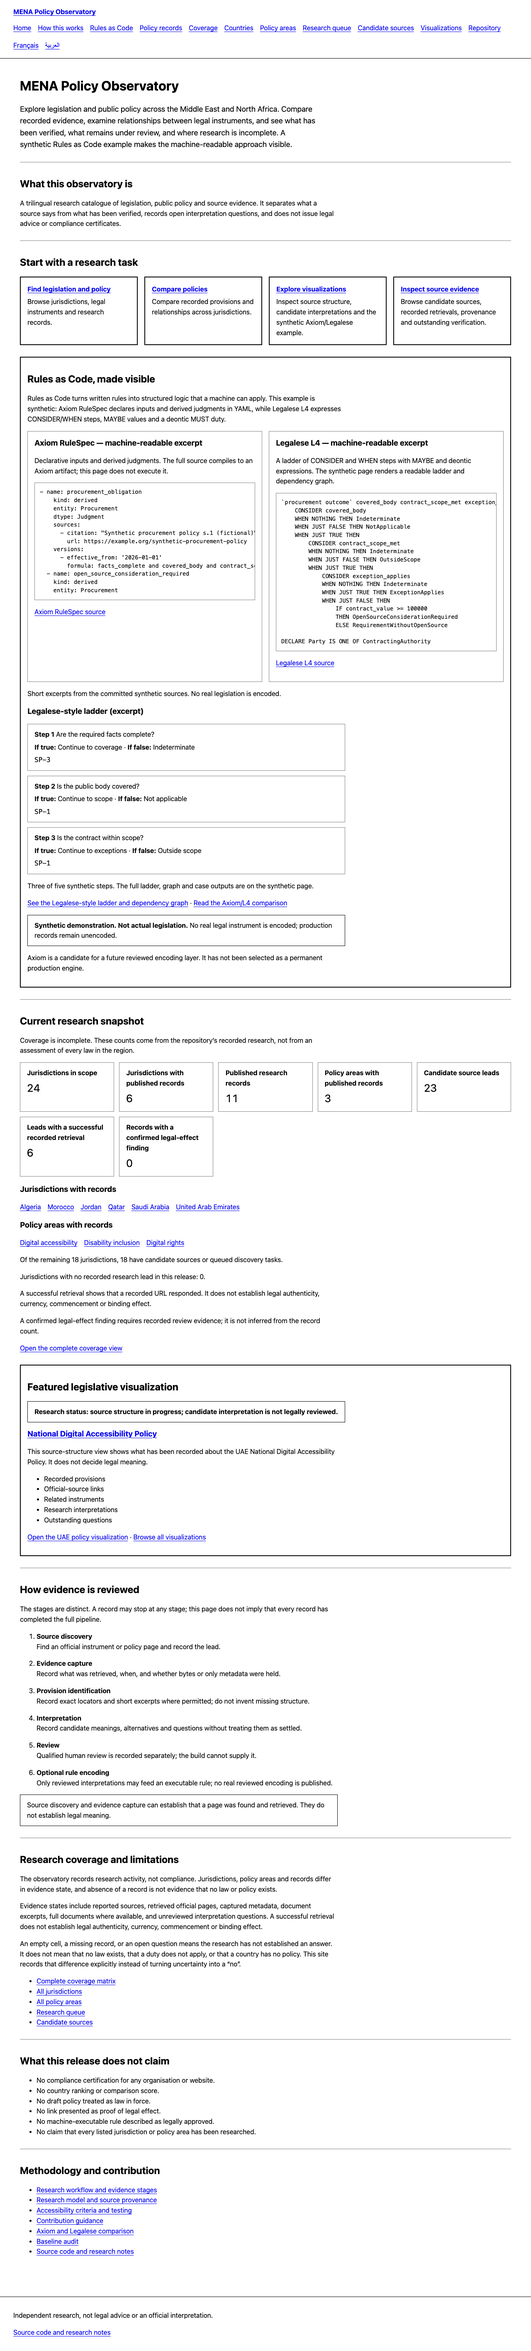
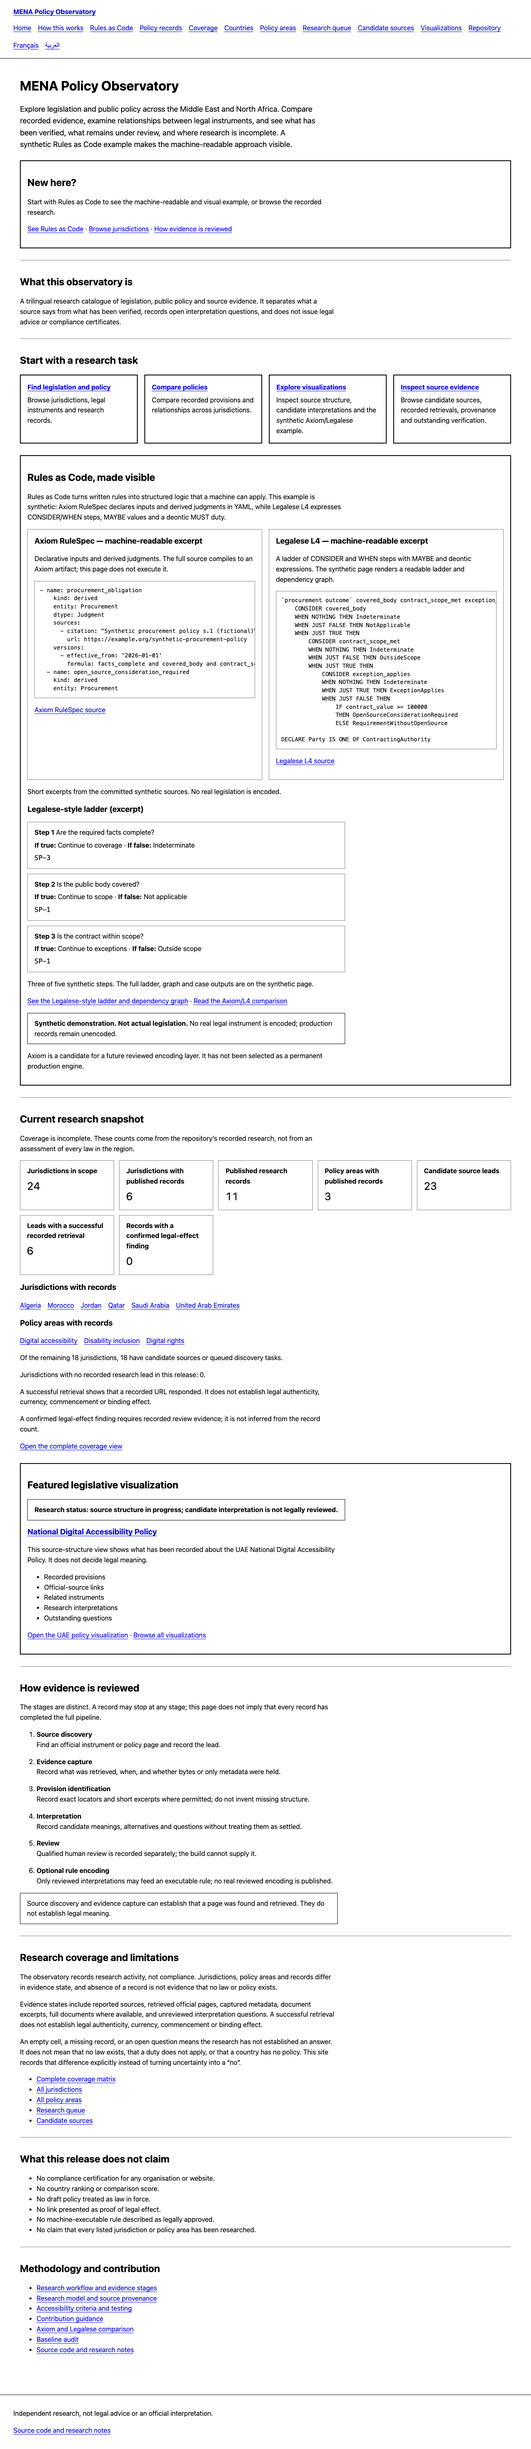
Add a short Start here landing page
Make the root entry point easier to approach before users reach the full
research catalogue or homepage.

- Replace the root's full site navigation and three long language sections
  with a short Start here page: Rules as Code, browse research, evidence
  method, then language cards.
- Add a compact New here? callout at the top of each localized homepage with
  the same three starting paths.
- Keep the browser-language redirect and ?lang= override; the start page
  remains usable without JavaScript.
- Add root/home start strings in English, French and Arabic, responsive start
  styles, screenshots and regression tests.

No research records, source evidence, legal-effect classifications or review
states changed. Verification: 335 tests, 15 toolkit tests, 190 pages,
578 Playwright/axe checks, registry/instruments/import/manifest current,
git diff check clean.

Changed region(s): [[0.0312, 0.0, 0.9062, 0.9949], [0.5938, 0.4353, 0.7188, 0.4974], [0.5312, 0.2798, 0.5625, 0.3109]]

diff --git a/dist/index.html b/dist/index.html
@@ -3,7 +3,7 @@
 <head>
 <meta charset="utf-8">
 <meta name="viewport" content="width=device-width,initial-scale=1">
-<title>MENA Policy Observatory — Choose a language</title>
+<title>MENA Policy Observatory — Start here</title>
 <meta name="description" content="A trilingual research catalogue of legislation, public policy and source evidence across the Middle East and North Africa. Research only, not legal advice.">
 <link rel="alternate" hreflang="en" href="mena/en/">
 <link rel="alternate" hreflang="fr" href="mena/fr/">
@@ -15,16 +15,6 @@
 <a class="skip" href="#main">Skip to main content</a>
 <header class="site-header">
 <p class="brand"><a href="mena/en/">MENA Policy Observatory</a></p>
-<nav class="site-nav" aria-label="Main navigation">
-<ul>
-<li><a href="mena/en/">Home</a></li>
-<li><a href="mena/en/#method">How this works</a></li>
-<li><a href="mena/en/#rules-as-code">Rules as Code</a></li>
-<li><a href="mena/en/#records">Policy records</a></li>
-<li><a href="mena/en/visualizations/">Visualizations</a></li>
-<li><a href="https://github.com/mgifford/mena-policy-observatory">Repository</a></li>
-</ul>
-</nav>
 <nav class="language" aria-label="Language">
 <ul><li><a href="mena/fr/" hreflang="fr" lang="fr" dir="ltr">Français</a></li><li><a href="mena/ar/" hreflang="ar" lang="ar" dir="rtl">العربية</a></li></ul>
 </nav>
@@ -32,9 +22,15 @@
 <main id="main" tabindex="-1">
 <h1>MENA Policy Observatory</h1>
 <p class="lede">This site records what official sources and recorded research say about legislation and public policy, where each claim comes from, and what still needs review. It is research, not legal advice.</p>
-<h2>Choose a language</h2>
-<p><a href="mena/en/" hreflang="en" lang="en" dir="ltr">Continue in English</a></p>
-<section lang="fr" dir="ltr"><h2>Observatoire des politiques MENA</h2><p>Ce site consigne ce que disent les sources officielles et la recherche consignée sur la législation et les politiques publiques, l&#x27;origine de chaque affirmation et ce qui reste à vérifier. Il s&#x27;agit de recherche, pas de conseil juridique.</p><p><a href="mena/fr/" hreflang="fr" lang="fr" dir="ltr">Continuer en français</a></p></section><section lang="ar" dir="rtl"><h2>مرصد سياسات الشرق الأوسط وشمال أفريقيا</h2><p>يسجل هذا الموقع ما تقوله المصادر الرسمية والبحث المسجل عن التشريعات والسياسات العامة، ومصدر كل عبارة، وما لا يزال بحاجة إلى مراجعة. وهو بحث، وليس نصيحة قانونية.</p><p><a href="mena/ar/" hreflang="ar" lang="ar" dir="rtl">المتابعة بالعربية</a></p></section>
+<section class="start-here"><h2>Start here</h2>
+<p>New to Rules as Code? It turns written rules into machine-readable logic. Start with the synthetic Axiom/Legalese example, or browse the research.</p>
+<ul class="start-paths">
+<li><a href="mena/en/visualizations/synthetic.html"><strong>See Rules as Code</strong></a></li>
+<li><a href="mena/en/countries/index.html"><strong>Browse legislation and policy</strong></a></li>
+<li><a href="mena/en/index.html#method"><strong>How evidence is reviewed</strong></a></li>
+</ul></section>
+<section><h2>Choose a language</h2>
+<ul class="language-grid"><li><a href="mena/en/" hreflang="en" lang="en" dir="ltr"><strong>English</strong></a></li><li><a href="mena/fr/" hreflang="fr" lang="fr" dir="ltr"><strong>Français</strong></a></li><li><a href="mena/ar/" hreflang="ar" lang="ar" dir="rtl"><strong>العربية</strong></a></li></ul></section>
 <p class="note">Research and comparison only. Not legal advice, and not evidence that a rule is in force.</p>
 <p><a href="https://github.com/mgifford/mena-policy-observatory">Repository and research notes</a></p>
 </main>

diff --git a/dist/mena/ar/index.html b/dist/mena/ar/index.html
@@ -37,6 +37,7 @@
 
 <h1>مرصد سياسات الشرق الأوسط وشمال أفريقيا</h1>
 <p class="lede">استكشف التشريعات والسياسات العامة في الشرق الأوسط وشمال أفريقيا. قارن الأدلة المسجلة، وافحص العلاقات بين الصكوك القانونية، وميّز ما تم التحقق منه وما لا يزال قيد المراجعة وما لم يكتمل بحثه. ويوضح مثال تركيبي للقواعد كشيفرة المقاربة القابلة للقراءة الآلية.</p>
+<section class="start-here"><h2>جديد هنا؟</h2><p>ابدأ بالقواعد كشيفرة لرؤية المثال القابل للقراءة الآلية والتصور، أو تصفح البحث المسجل.</p><p><a href="visualizations/synthetic.html">شاهد القواعد كشيفرة</a> · <a href="countries/index.html">تصفح الولايات القضائية</a> · <a href="index.html#method">كيف تُراجع الأدلة</a></p></section>
 <section><h2>ما هو هذا المرصد</h2><p>كتالوج بحثي ثلاثي اللغة للتشريعات والسياسات العامة وأدلة المصادر. يفصل ما تقوله الوثيقة عما تم التحقق منه، ويسجل أسئلة التفسير المفتوحة، ولا يقدم مشورة قانونية أو شهادات امتثال.</p></section>
 <section class="home-paths"><h2>ابدأ بمهمة بحثية</h2><nav aria-label="مسارات البحث الرئيسية"><ul><li><a href="countries/index.html"><strong>ابحث عن تشريع أو سياسة</strong><span>تصفح الولايات القضائية والصكوك القانونية وسجلات البحث.</span></a></li><li><a href="comparison/index.html"><strong>قارن السياسات</strong><span>قارن البنود المسجلة والعلاقات بين الولايات القضائية.</span></a></li><li><a href="visualizations/index.html"><strong>استكشف التصورات</strong><span>افحص بنية المصادر والتفسيرات المرشحة والمثال التركيبي لأكسيوم وليغاليز.</span></a></li><li><a href="sources/index.html"><strong>افحص أدلة المصادر</strong><span>تصفح المصادر المرشحة وعمليات الاسترجاع المسجلة والمصدر والتحقق المعلق.</span></a></li></ul></nav></section>
 <section id="rules-as-code" class="rules-code"><h2>القواعد كشيفرة، بشكل مرئي</h2><p>تحوّل القواعد كشيفرة القواعد المكتوبة إلى منطق منظم يمكن للحاسوب تطبيقه. هذا المثال اصطناعي: يعلن أكسيوم المدخلات والأحكام المشتقة في بيانات منظمة، ويعبّر ليغاليز عن خطوات النظر والشرط وقيم الاحتمال وواجب واضح.</p><div class="code-grid"><article class="code-card"><h3>أكسيوم — مقتطف قابل للقراءة الآلية</h3><p>مدخلات وأحكام مشتقة معلنة. يُجمّع المصدر الكامل إلى أثر لأكسيوم، ولا تنفذه هذه الصفحة.</p><div class="code-scroll" role="region" aria-label="أكسيوم — مقتطف قابل للقراءة الآلية" tabindex="0"><pre><code lang="en" dir="ltr">- name: procurement_obligation

diff --git a/dist/mena/fr/index.html b/dist/mena/fr/index.html
@@ -37,6 +37,7 @@
 
 <h1>Observatoire des politiques MENA</h1>
 <p class="lede">Explorez la législation et les politiques publiques au Moyen-Orient et en Afrique du Nord. Comparez les preuves consignées, examinez les relations entre les instruments juridiques et distinguez ce qui a été vérifié, ce qui reste en revue et ce qui demeure incomplet. Un exemple synthétique Rules as Code rend visible l’approche lisible par machine.</p>
+<section class="start-here"><h2>Vous découvrez ?</h2><p>Commencez par Rules as Code pour voir l’exemple lisible par machine et sa visualisation, ou parcourez la recherche consignée.</p><p><a href="visualizations/synthetic.html">Voir Rules as Code</a> · <a href="countries/index.html">Parcourir les juridictions</a> · <a href="index.html#method">Comment les preuves sont examinées</a></p></section>
 <section><h2>Ce qu&#x27;est cet observatoire</h2><p>Un catalogue de recherche trilingue sur la législation, les politiques publiques et les preuves de source. Il sépare ce que dit une source de ce qui a été vérifié, consigne les questions d&#x27;interprétation ouvertes et ne délivre ni conseil juridique ni certificat de conformité.</p></section>
 <section class="home-paths"><h2>Commencer par une tâche de recherche</h2><nav aria-label="Parcours de recherche principaux"><ul><li><a href="countries/index.html"><strong>Trouver une législation ou une politique</strong><span>Parcourir les juridictions, les instruments juridiques et les fiches de recherche.</span></a></li><li><a href="comparison/index.html"><strong>Comparer les politiques</strong><span>Comparer les dispositions consignées et les relations entre juridictions.</span></a></li><li><a href="visualizations/index.html"><strong>Explorer les visualisations</strong><span>Examiner la structure des sources, les interprétations candidates et l&#x27;exemple synthétique Axiom/Legalese.</span></a></li><li><a href="sources/index.html"><strong>Inspecter les preuves de source</strong><span>Parcourir les sources candidates, les récupérations consignées, la provenance et les vérifications en attente.</span></a></li></ul></nav></section>
 <section id="rules-as-code" class="rules-code"><h2>Rules as Code, rendu visible</h2><p>Rules as Code transforme des règles écrites en logique structurée qu&#x27;une machine peut appliquer. L&#x27;exemple est synthétique : Axiom RuleSpec déclare les entrées et les jugements dérivés en YAML, tandis que Legalese L4 exprime des étapes CONSIDER/WHEN, des valeurs MAYBE et un devoir déontique MUST.</p><div class="code-grid"><article class="code-card"><h3>Axiom RuleSpec — extrait lisible par machine</h3><p>Entrées déclaratives et jugements dérivés. La source complète se compile en artefact Axiom ; cette page ne l&#x27;exécute pas.</p><div class="code-scroll" role="region" aria-label="Axiom RuleSpec — extrait lisible par machine" tabindex="0"><pre><code lang="en" dir="ltr">- name: procurement_obligation

diff --git a/dist/mena/en/index.html b/dist/mena/en/index.html
@@ -37,6 +37,7 @@
 
 <h1>MENA Policy Observatory</h1>
 <p class="lede">Explore legislation and public policy across the Middle East and North Africa. Compare recorded evidence, examine relationships between legal instruments, and see what has been verified, what remains under review, and where research is incomplete. A synthetic Rules as Code example makes the machine-readable approach visible.</p>
+<section class="start-here"><h2>New here?</h2><p>Start with Rules as Code to see the machine-readable and visual example, or browse the recorded research.</p><p><a href="visualizations/synthetic.html">See Rules as Code</a> · <a href="countries/index.html">Browse jurisdictions</a> · <a href="index.html#method">How evidence is reviewed</a></p></section>
 <section><h2>What this observatory is</h2><p>A trilingual research catalogue of legislation, public policy and source evidence. It separates what a source says from what has been verified, records open interpretation questions, and does not issue legal advice or compliance certificates.</p></section>
 <section class="home-paths"><h2>Start with a research task</h2><nav aria-label="Primary research paths"><ul><li><a href="countries/index.html"><strong>Find legislation and policy</strong><span>Browse jurisdictions, legal instruments and research records.</span></a></li><li><a href="comparison/index.html"><strong>Compare policies</strong><span>Compare recorded provisions and relationships across jurisdictions.</span></a></li><li><a href="visualizations/index.html"><strong>Explore visualizations</strong><span>Inspect source structure, candidate interpretations and the synthetic Axiom/Legalese example.</span></a></li><li><a href="sources/index.html"><strong>Inspect source evidence</strong><span>Browse candidate sources, recorded retrievals, provenance and outstanding verification.</span></a></li></ul></nav></section>
 <section id="rules-as-code" class="rules-code"><h2>Rules as Code, made visible</h2><p>Rules as Code turns written rules into structured logic that a machine can apply. This example is synthetic: Axiom RuleSpec declares inputs and derived judgments in YAML, while Legalese L4 expresses CONSIDER/WHEN steps, MAYBE values and a deontic MUST duty.</p><div class="code-grid"><article class="code-card"><h3>Axiom RuleSpec — machine-readable excerpt</h3><p>Declarative inputs and derived judgments. The full source compiles to an Axiom artifact; this page does not execute it.</p><div class="code-scroll" role="region" aria-label="Axiom RuleSpec — machine-readable excerpt" tabindex="0"><pre><code lang="en" dir="ltr">- name: procurement_obligation

diff --git a/dist/mena/assets/site.css b/dist/mena/assets/site.css
@@ -97,3 +97,11 @@ section.synthetic-card{border:3px solid CanvasText;padding:1rem;margin-block-sta
 @media(max-width:40rem){.rules-code{padding:.75rem}.code-grid{grid-template-columns:1fr}}
 .node-input rect,.node-constant rect,.node-computed rect{fill:Canvas;stroke:CanvasText;stroke-width:2}
 .edge{fill:none}
+/* Entry and orientation */
+.start-here{border:2px solid CanvasText;padding:1rem;margin-block-start:1.5rem}
+.start-paths{display:grid;grid-template-columns:repeat(auto-fit,minmax(12rem,1fr));gap:.75rem;list-style:none;margin:1rem 0 0;padding:0}
+.start-paths a{display:block;height:100%;border:2px solid CanvasText;padding:.75rem 1rem;color:LinkText;text-decoration:none}
+.start-paths a:focus-visible,.language-grid a:focus-visible{outline:3px solid Highlight;outline-offset:3px}
+.language-grid{display:flex;flex-wrap:wrap;gap:.75rem;list-style:none;margin:1rem 0;padding:0}
+.language-grid a{display:inline-block;border:1px solid CanvasText;padding:.5rem .9rem;color:LinkText;text-decoration:none}
+@media(max-width:40rem){.start-paths{grid-template-columns:1fr}}

diff --git a/framework/site.css b/framework/site.css
@@ -97,3 +97,11 @@ section.synthetic-card{border:3px solid CanvasText;padding:1rem;margin-block-sta
 @media(max-width:40rem){.rules-code{padding:.75rem}.code-grid{grid-template-columns:1fr}}
 .node-input rect,.node-constant rect,.node-computed rect{fill:Canvas;stroke:CanvasText;stroke-width:2}
 .edge{fill:none}
+/* Entry and orientation */
+.start-here{border:2px solid CanvasText;padding:1rem;margin-block-start:1.5rem}
+.start-paths{display:grid;grid-template-columns:repeat(auto-fit,minmax(12rem,1fr));gap:.75rem;list-style:none;margin:1rem 0 0;padding:0}
+.start-paths a{display:block;height:100%;border:2px solid CanvasText;padding:.75rem 1rem;color:LinkText;text-decoration:none}
+.start-paths a:focus-visible,.language-grid a:focus-visible{outline:3px solid Highlight;outline-offset:3px}
+.language-grid{display:flex;flex-wrap:wrap;gap:.75rem;list-style:none;margin:1rem 0;padding:0}
+.language-grid a{display:inline-block;border:1px solid CanvasText;padding:.5rem .9rem;color:LinkText;text-decoration:none}
+@media(max-width:40rem){.start-paths{grid-template-columns:1fr}}

diff --git a/framework/build.py b/framework/build.py
@@ -700,6 +700,11 @@ def home_body(catalogues, lang, cfg, policies, view, stats=None):
     parts = [
         f'<h1>{esc(cfg["title"][lang])}</h1>',
         f'<p class="lede">{esc(strings["home.lede"])}</p>',
+        f'<section class="start-here"><h2>{esc(strings["home.start.heading"])}</h2>'
+        f'<p>{esc(strings["home.start.body"])}</p>'
+        f'<p><a href="visualizations/synthetic.html">{esc(strings["home.start.rules"])}</a> · '
+        f'<a href="countries/index.html">{esc(strings["home.start.research"])}</a> · '
+        f'<a href="index.html#method">{esc(strings["home.start.method"])}</a></p></section>',
         f'<section><h2>{esc(strings["home.what.heading"])}</h2>'
         f'<p>{esc(strings["home.what.body"])}</p></section>',
         f'<section class="home-paths"><h2>{esc(strings["home.paths.heading"])}</h2>'
@@ -1882,15 +1887,14 @@ def build_root(region='mena'):
         f'dir="{direction(code)}">{esc(LANGUAGE_NAMES[code])}</a></li>'
         for code in languages if code != default_lang
     )
-    language_sections = ''.join(
-        f'<section lang="{code}" dir="{direction(code)}">'
-        f'<h2>{esc(catalogues[code]["root.h1"])}</h2>'
-        f'<p>{esc(catalogues[code]["root.summary"])}</p>'
-        f'<p><a href="mena/{code}/" hreflang="{code}" lang="{code}" dir="{direction(code)}">'
-        f'{esc(catalogues[code].get(CONTINUE_KEYS.get(code), catalogues[code]["root.choose"]))}</a></p>'
-        f'</section>'
-        for code in languages if code != default_lang
+    language_cards = ''.join(
+        f'<li><a href="mena/{code}/" hreflang="{code}" lang="{code}" dir="{direction(code)}">'
+        f'<strong>{esc(LANGUAGE_NAMES[code])}</strong></a></li>'
+        for code in languages
     )
+    start_rules_url = f'mena/{default_lang}/visualizations/synthetic.html'
+    start_research_url = f'mena/{default_lang}/countries/index.html'
+    start_method_url = f'mena/{default_lang}/index.html#method'
     supported = json.dumps({code: f'mena/{code}/' for code in languages}, ensure_ascii=False)
     redirect_script = """<script>
 (function () {
@@ -1926,16 +1930,6 @@ def build_root(region='mena'):
 <a class="skip" href="#main">{esc(default['skip'])}</a>
 <header class="site-header">
 <p class="brand"><a href="{default_url}">{esc(default['site.title'])}</a></p>
-<nav class="site-nav" aria-label="{esc(default['nav.label'])}">
-<ul>
-<li><a href="{default_url}">{esc(default['nav.home'])}</a></li>
-<li><a href="{default_url}#method">{esc(default['nav.method'])}</a></li>
-<li><a href="{default_url}#rules-as-code">{esc(default['nav.rules'])}</a></li>
-<li><a href="{default_url}#records">{esc(default['nav.records'])}</a></li>
-<li><a href="mena/{default_lang}/visualizations/">{esc(default['nav.visualizations'])}</a></li>
-<li><a href="{REPOSITORY_URL}">{esc(default['nav.repository'])}</a></li>
-</ul>
-</nav>
 <nav class="language" aria-label="{esc(default['nav.language'])}">
 <ul>{language_links}</ul>
 </nav>
@@ -1943,9 +1937,15 @@ def build_root(region='mena'):
 <main id="main" tabindex="-1">
 <h1>{esc(default['root.h1'])}</h1>
 <p class="lede">{esc(default['root.summary'])}</p>
-<h2>{esc(default['root.choose'])}</h2>
-<p><a href="{default_url}" hreflang="{default_lang}" lang="{default_lang}" dir="{direction(default_lang)}">{esc(default[CONTINUE_KEYS.get(default_lang, 'root.choose')])}</a></p>
-{language_sections}
+<section class="start-here"><h2>{esc(default['root.start_heading'])}</h2>
+<p>{esc(default['root.start_body'])}</p>
+<ul class="start-paths">
+<li><a href="{start_rules_url}"><strong>{esc(default['root.start_rules'])}</strong></a></li>
+<li><a href="{start_research_url}"><strong>{esc(default['root.start_research'])}</strong></a></li>
+<li><a href="{start_method_url}"><strong>{esc(default['root.start_method'])}</strong></a></li>
+</ul></section>
+<section><h2>{esc(default['root.choose'])}</h2>
+<ul class="language-grid">{language_cards}</ul></section>
 <p class="note">{esc(default['root.note'])}</p>
 <p><a href="{REPOSITORY_URL}">{esc(default['root.repo'])}</a></p>
 </main>

diff --git a/tests/test_homepage.py b/tests/test_homepage.py
@@ -189,6 +189,25 @@ class HomepageResearchDiscoveryTests(unittest.TestCase):
         self.assertNotIn('<table', body)
         self.assertIn('<dl class="stat-grid">', body)
 
+    def test_homepage_has_a_short_start_here_orientation(self):
+        body = self.body()
+        self.assertIn(self.catalogues['en']['home.start.heading'], body)
+        self.assertIn(self.catalogues['en']['home.start.rules'], body)
+        self.assertIn('href="visualizations/synthetic.html"', body)
+        self.assertIn('href="countries/index.html"', body)
+        self.assertIn('href="index.html#method"', body)
+
+    def test_root_is_a_short_start_here_and_language_chooser(self):
+        root = (REPO_ROOT / 'dist' / 'index.html').read_text(encoding='utf-8')
+        self.assertIn('<html lang="en"', root)
+        self.assertIn(self.catalogues['en']['root.start_heading'], root)
+        self.assertIn(self.catalogues['en']['root.start_rules'], root)
+        self.assertIn('mena/en/visualizations/synthetic.html', root)
+        self.assertIn('mena/fr/', root)
+        self.assertIn('mena/ar/', root)
+        self.assertNotIn('class="site-nav"', root)
+        self.assertIn('location.replace', root)
+
     def test_metadata_is_trilingual_and_uses_derived_counts(self):
         for lang in ('en', 'fr', 'ar'):
             strings = self.catalogues[lang]

diff --git a/README.md b/README.md
@@ -36,7 +36,7 @@ npm run test:a11y
 
 Interface and homepage strings live in `regions/mena/i18n/en.json`, `fr.json` and `ar.json`. Policy records can also record optional language expressions (original, additional authoritative, official translation, research translation, machine draft, pending, unavailable or unresolved) with per-text authority, method and review provenance. Candidate terminology lives in `regions/mena/data/terminology.json` and is explicitly draft, not a legal glossary. The build fails if the three catalogues declare different keys, and unit tests check placeholders and value hygiene. French and Arabic page copy are drafts pending native-speaker review. Policy record fields have no French or Arabic translation; on those pages they are shown in their source language with `lang`/`dir` marking and an explicit notice.
 
-The root page detects the browser language for supported locales and sends French and Arabic visitors to the matching localized homepage; English visitors see the English chooser. Unsupported languages fall back to the English chooser, and `?lang=en`, `?lang=fr` or `?lang=ar` overrides detection. The localized URLs remain stable; the redirect is progressive enhancement and the chooser stays usable without JavaScript.
+The root page is a short **Start here** page: it points first-time visitors to Rules as Code, the research records and the evidence method, then offers the three languages. It also detects supported browser languages and sends French and Arabic visitors to the matching localized homepage; English visitors stay on the English start page. Unsupported languages fall back to the English start page, and `?lang=en`, `?lang=fr` or `?lang=ar` overrides detection. The localized URLs remain stable; the redirect is progressive enhancement and the start page stays usable without JavaScript.
 
 ## Research coverage views
 

diff --git a/docs/VISUALIZATION-MILESTONE.md b/docs/VISUALIZATION-MILESTONE.md
@@ -103,7 +103,7 @@ Screenshots (1280 px browser width, full page):
 Automated verification at the time of this work:
 
 - `python3 framework/validate.py` — pass.
-- `python3 -m unittest discover -s tests` — 333 tests, pass.
+- `python3 -m unittest discover -s tests` — 335 tests, pass.
 - `python3 -m unittest discover -s research-toolkit/tests` — 15 tests, pass.
 - registry, instruments, import and manifest checks — current.
 - `python3 framework/build.py --region mena` — 190 pages.
